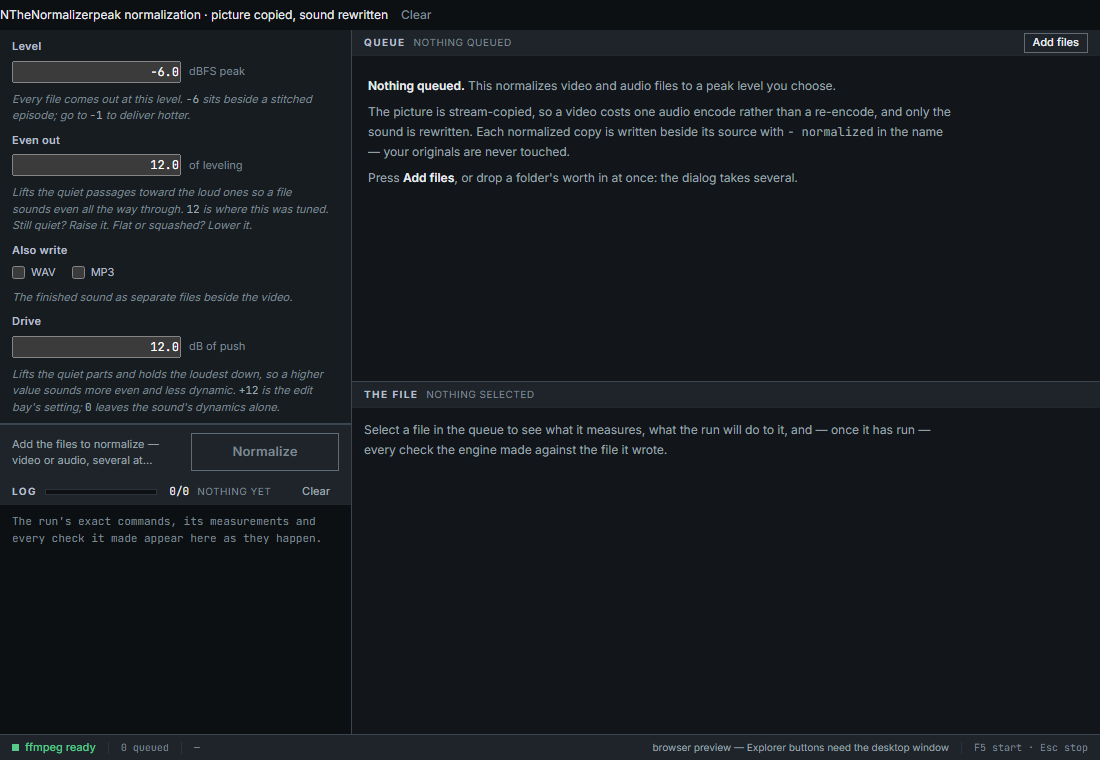
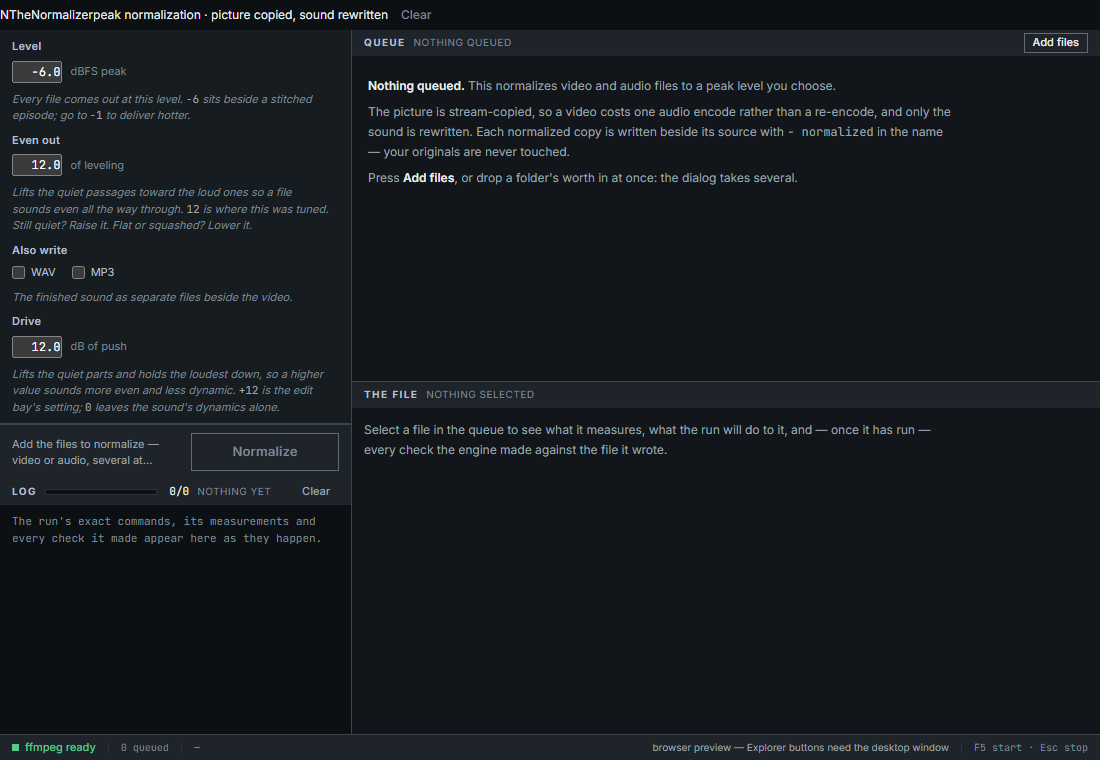
The number fields were 4.7 times the size of the numbers in them
`flex: 0 1 9ch` reads like "nine characters wide" and does not behave like it: a
`flex-basis` is a *starting point* that the flex algorithm grows from the space
available, so inside a full-width row a field holding `-6.0` rendered at 169 px.
Measured in the browser: one character is 7.2 px at that face, `-6.0` is 28.8 px
and `-24.0` -- the widest either control can hold -- is 36 px. The box could have
held twenty characters, and three of them down the panel read as three empty bars
rather than three numbers.

It is `flex: none` with `width: 7ch` now: 50 px, content 46 px, nothing clipped,
with room for a trailing keystroke while somebody is typing one. The two rules do
different jobs and only one of them is honest here -- `flex: none` stops the
growth, the `width` is what the box actually is, and setting only the basis is what
produced the defect.

scripts/check_window.py has a claim for it, and the claim is the point rather than
the number: the fault is invisible in the markup, because the CSS that caused it
reads like the CSS that would have prevented it.

Checks: 77 engine tests, 29 interface tests, tsc, the real engine on fixtures it
builds with ffmpeg, and the window in a real browser at 1180x880 and 1100x760 --
with the new claim passing at both.

Changed region(s): [[0.0309, 0.4237, 0.2164, 0.4842], [0.0309, 0.0605, 0.2164, 0.1211], [0.0309, 0.1816, 0.2164, 0.2421]]

diff --git a/frontend/src/styles/app.css b/frontend/src/styles/app.css
@@ -627,8 +627,31 @@
   color: var(--phosphor-dim);
 }
 
+/*
+ * The number field: **seven characters wide, and that is a measurement rather than a guess.**
+ *
+ * ## Why it was 4.7 times too big
+ *
+ * It was `flex: 0 1 9ch`, which reads like "nine characters and no more" and does not behave like it: a
+ * `flex-basis` is a *starting point* that the flex algorithm then grows from the space available. Inside a
+ * `.setting__control` that is as wide as the panel, `9ch` (64.8 px at this face) became **169 px** — the field
+ * held `−6.0` in a box that could have held twenty characters, and three of them down the panel read as three
+ * empty bars rather than as three numbers.
+ *
+ * ## What it is now, measured
+ *
+ * Measured in the browser with the field's own font: one character is 7.2 px, `−6.0` is 28.8 px and `−24.0`
+ * is 36 px — the widest value either control can hold, since neither the level nor the leveler goes past two
+ * digits. `7ch` is 50.4 px with the 2 px border either side, which leaves the digits, a caret and room for a
+ * trailing keystroke while somebody is typing one.
+ *
+ * `flex: none` and an explicit `width`, because the two rules do different jobs and only one of them is
+ * honest here: `flex: none` stops the growth, and the `width` is what the box actually is. Setting only the
+ * basis is what produced the defect.
+ */
 .number-field {
-  flex: 0 1 9ch;
+  flex: none;
+  width: 7ch;
   font-family: var(--font-data);
   font-variant-numeric: tabular-nums;
   text-align: right;

diff --git a/scripts/check_window.py b/scripts/check_window.py
@@ -392,6 +392,25 @@ def main() -> int:
             f"the settings and the button come to {stacked:.0f} px of column, which is what decides how "
             f"small the window can be",
         )
+        # The number fields are the width of their content, and the figure is asserted because the defect it
+        # catches is invisible in the markup: `flex: 0 1 9ch` *reads* like "nine characters" and behaves like
+        # "a starting point the flex algorithm grows from", so inside a full-width row a field holding `-6.0`
+        # rendered 169 px wide — 4.7 times the text — and three of them down the panel read as three empty
+        # bars rather than three numbers.
+        fields = page.script(
+            "return [...document.querySelectorAll('.number-field')].map(i => {"
+            "  const b = i.getBoundingClientRect();"
+            "  return {id: i.id, w: Math.round(b.width), text: i.value,"
+            "          need: Math.round(i.scrollWidth)};});"
+        )
+        check(
+            "each number field is the width of its digits and not of the row",
+            len(fields) == 3
+            and all(one["w"] <= 70 for one in fields)
+            and all(one["need"] <= one["w"] for one in fields),
+            " · ".join(f"#{one['id']} {one['w']}px for {one['text']!r}" for one in fields),
+        )
+
         check(
             "changing the level moves the limiter with it",
             page.script(
